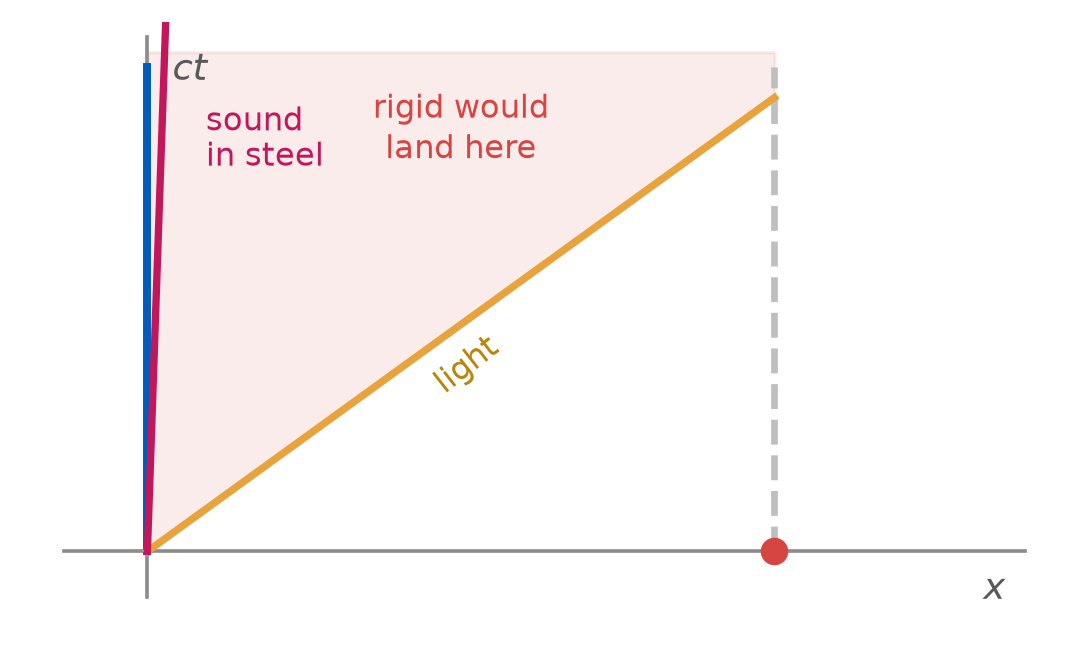
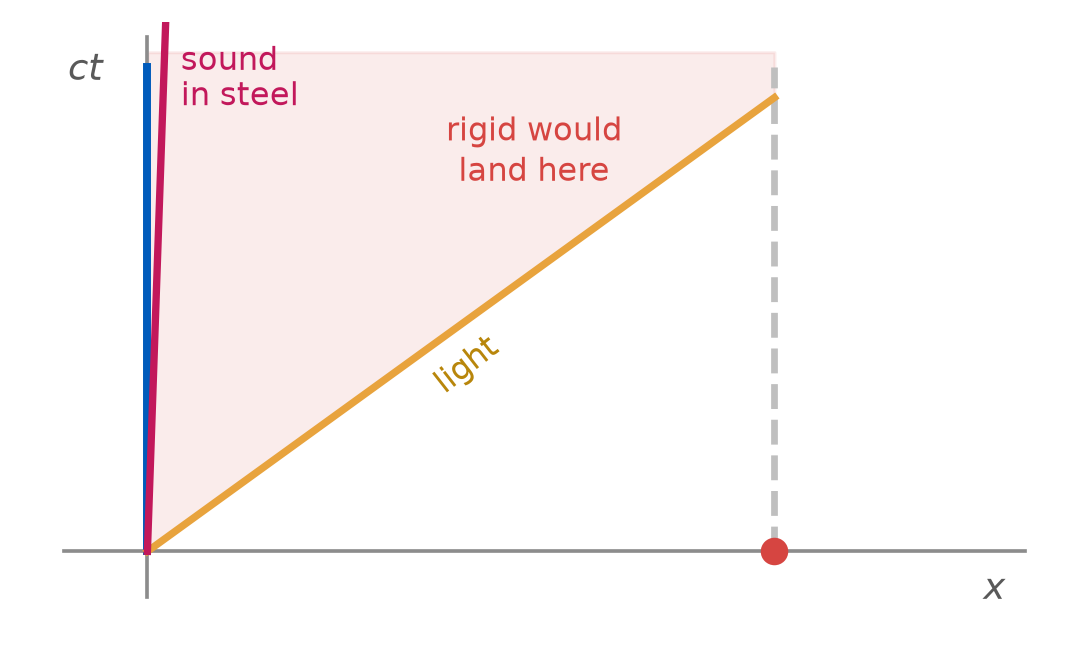
Publish site (source 4e8a237)

Changed region(s): [[0.1561, 0.0616, 0.3122, 0.2773], [0.3434, 0.1541, 0.5932, 0.2773], [0.0624, 0.0924, 0.0937, 0.1233]]

diff --git a/Lectures/L10/L10_Paradoxes.html b/Lectures/L10/L10_Paradoxes.html
@@ -215,7 +215,7 @@ Tim Thomay
 <p>Today: three paradoxes with <strong>no acceleration at all</strong>. Nobody turns around, every observer coasts.</p>
 <p><strong>So what is left to break the symmetry?</strong></p>
 </div><div class="column" style="width:43%;">
-<div id="357c699b" class="cell" data-execution_count="2">
+<div id="8afe28ee" class="cell" data-execution_count="2">
 <div class="cell-output cell-output-display">
 <div>
 <figure>
@@ -235,7 +235,7 @@ Tim Thomay
 <p><strong>Barn frame</strong> · the pole is 10 m, so it fits, and both doors could shut for an instant. <strong>Pole frame</strong> · the barn is 5 m, so it <span class="wrong">never fits</span>.</p>
 <p>This is the <strong>L06 tunnel</strong>, renamed. You voted on it, and (d) was correct.</p>
 </div><div class="column" style="width:47%;">
-<div id="f5dae728" class="cell" data-execution_count="3">
+<div id="5a2f654e" class="cell" data-execution_count="3">
 <div class="cell-output cell-output-display">
 <div>
 <figure>
@@ -259,7 +259,7 @@ Tim Thomay
 <p>Not immediately, and not at <span class="math inline">\(c\)</span> either. The push travels as a <strong>compression wave</strong>, at the speed of sound in steel — about <span class="math inline">\(5{,}000\)</span> m/s.</p>
 </div>
 </div><div class="column" style="width:49%;">
-<div id="a670046b" class="cell" data-execution_count="4">
+<div id="9ffd51cc" class="cell" data-execution_count="4">
 <div class="cell-output cell-output-display">
 <div>
 <figure>
@@ -292,7 +292,7 @@ Tim Thomay
 <p>The pole and barn asked <em>“does it fit?”</em> — a statement about <strong>two events at once</strong>, so frames disagree and nothing happens.</p>
 <p>The bug asks <em>“is the bug hit?”</em> — <strong>one event</strong>, at one place. Every frame agrees on that, <span class="right">or the theory is broken</span>.</p>
 </div><div class="column" style="width:50%;">
-<div id="e4a91214" class="cell" data-execution_count="5">
+<div id="7654c9b4" class="cell" data-execution_count="5">
 <div class="cell-output cell-output-display">
 <div>
 <figure>
